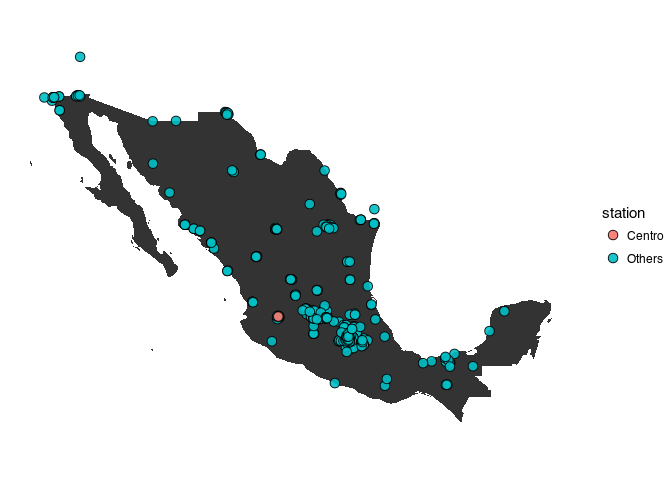
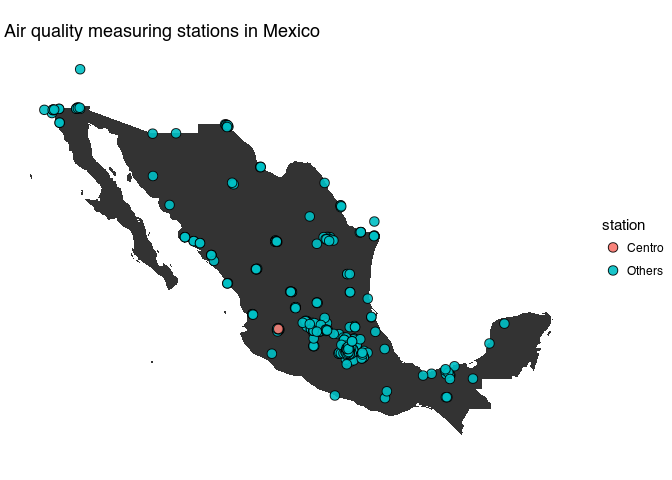
plot title

Changed region(s): [[0.0625, 0.1875, 0.8438, 0.9062], [0.0, 0.0312, 0.4688, 0.1562], [0.875, 0.4375, 1.0, 0.5938]]

diff --git a/README.md b/README.md
@@ -52,6 +52,7 @@ ggplot(stations_sinaica[order(stations_sinaica$color, decreasing = TRUE),], aes(
   geom_polygon(data = mx, aes(x= long, y = lat, group = group)) +
   geom_point(alpha = .9, size = 3, aes(fill = color), shape = 21) + 
   scale_fill_discrete("station") +
+  ggtitle("Air quality measuring stations in Mexico") +
   coord_map() + 
   theme_void()
 ```
